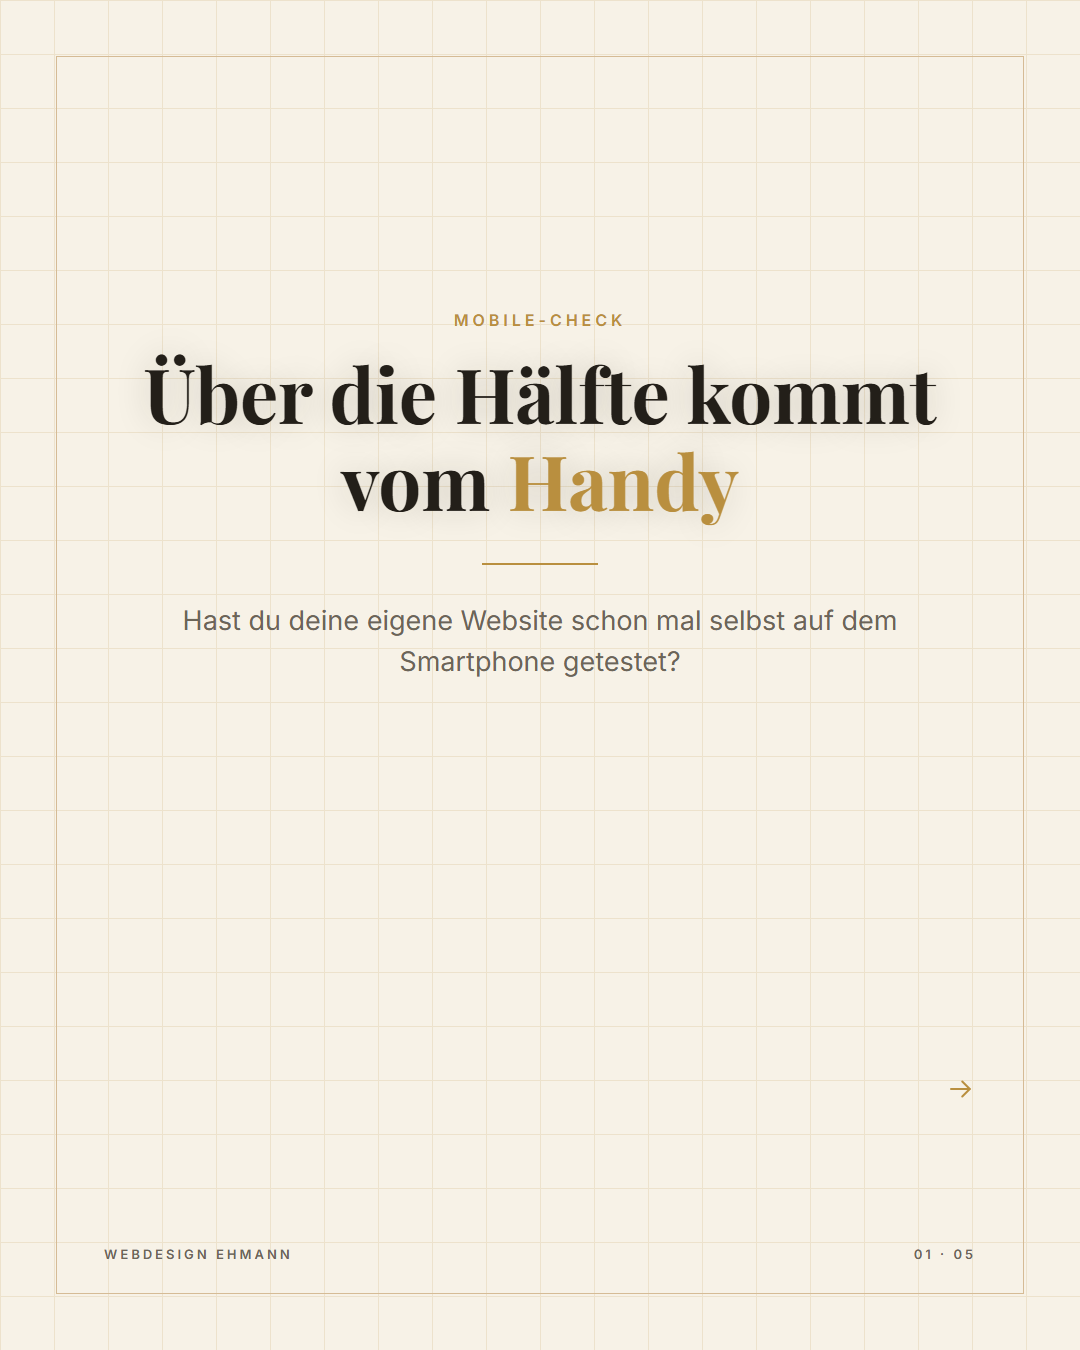
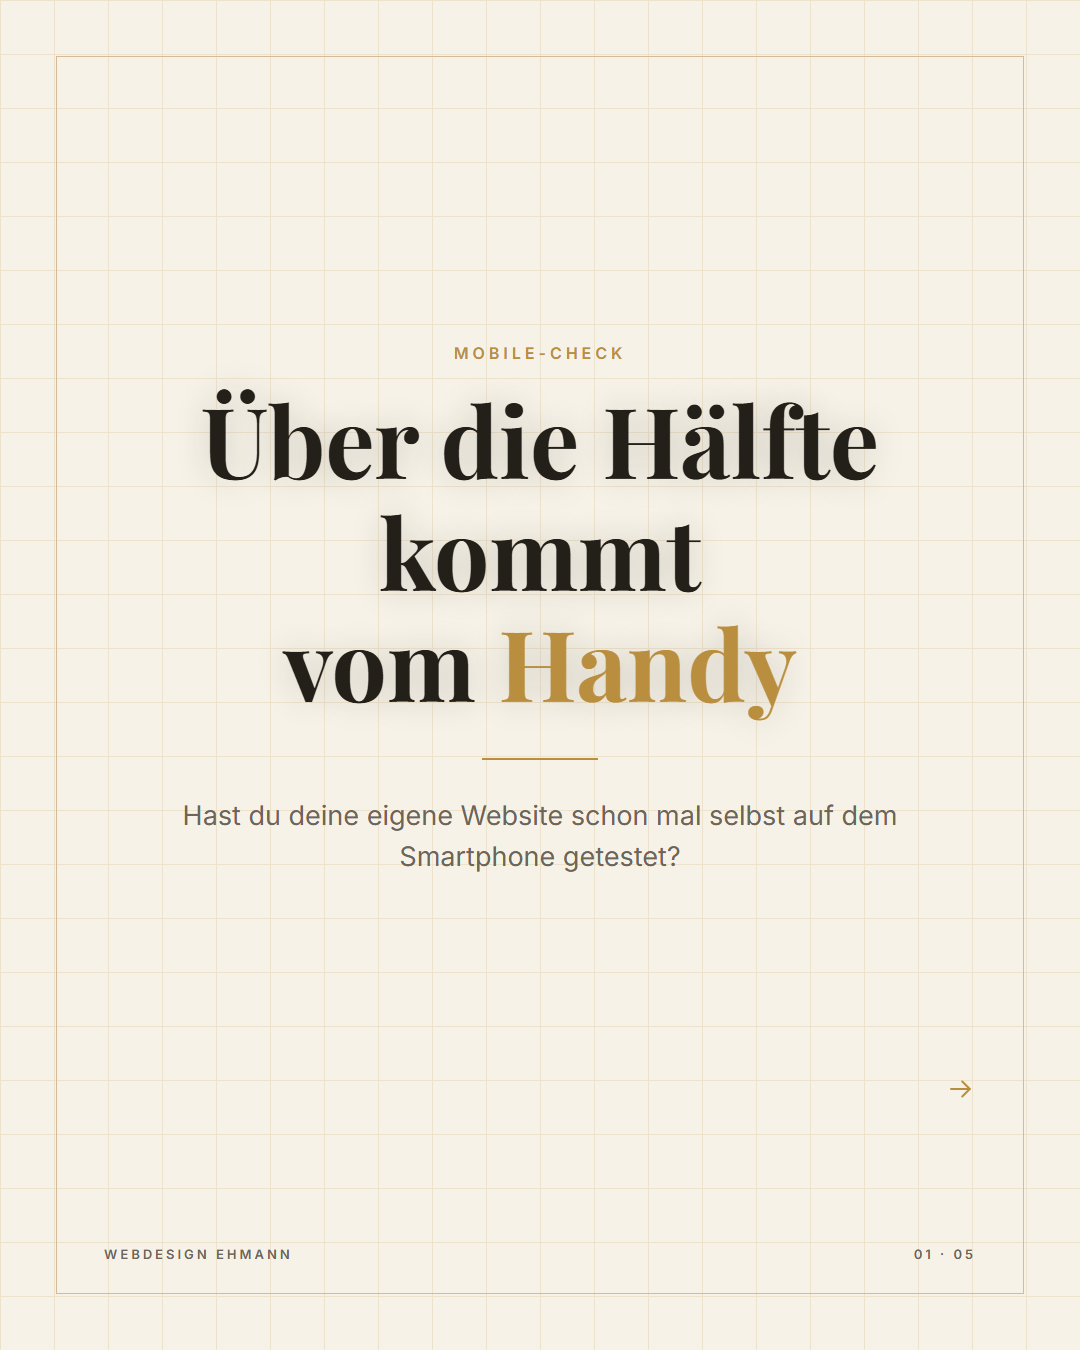
Big-Cover-Eyecatcher auf allen restlichen Slide-1-Headlines aktivieren

Changed region(s): [[0.1222, 0.2178, 0.8861, 0.5289], [0.1833, 0.5911, 0.825, 0.6533]]

diff --git a/assets/marketing/instagram-posts/_build/content.js b/assets/marketing/instagram-posts/_build/content.js
@@ -37,6 +37,7 @@ const POSTS = [
     slides: [
       {
         kind: "cover",
+        big: true,
         kicker: "DESIGN-BEISPIEL · FIKTIVER BETRIEB",
         headline: ["Schreinerei", "<span class=\"accent\">Vogt</span>"],
         subtext: "So könnte ein Website-Relaunch aussehen.",
@@ -77,6 +78,7 @@ const POSTS = [
     slides: [
       {
         kind: "cover",
+        big: true,
         kicker: "MOBILE-CHECK",
         headline: ["Über die Hälfte kommt", "vom <span class=\"accent\">Handy</span>"],
         subtext: "Hast du deine eigene Website schon mal selbst auf dem Smartphone getestet?",
@@ -119,6 +121,7 @@ const POSTS = [
     slides: [
       {
         kind: "cover",
+        big: true,
         kicker: "DATENSCHUTZ-MYTHOS · TEIL 2",
         headline: ["Warum ich auf", "Cookie-Banner <span class=\"accent\">verzichte</span>"],
         subtext: "Kein Trick, keine Ausnahme — bei jedem einzelnen Projekt.",
@@ -161,6 +164,7 @@ const POSTS = [
     slides: [
       {
         kind: "cover",
+        big: true,
         kicker: "TIPP",
         headline: ["Warum ein „mailto:“-", "Link <span class=\"accent\">schadet</span>"],
         subtext: "Kleines Detail, großer Unterschied für deine Kunden.",
@@ -199,6 +203,7 @@ const POSTS = [
     slides: [
       {
         kind: "cover",
+        big: true,
         kicker: "WARUM JETZT",
         headline: ["Kein <span class=\"accent\">Nice-to-have</span>", "mehr"],
         subtext: "2026 informieren sich Kunden zuerst online — vor dem ersten Anruf.",
@@ -244,8 +249,9 @@ const POSTS = [
     slides: [
       {
         kind: "cover",
+        big: true,
         kicker: "NACH DEM LIVEGANG",
-        headline: ["Eine Website ist nie", "wirklich <span class=\"accent\">fertig</span>"],
+        headline: ["Eine Website", "ist nie wirklich", "<span class=\"accent\">fertig</span>"],
         subtext: "Und das ist auch gut so.",
       },
       {
